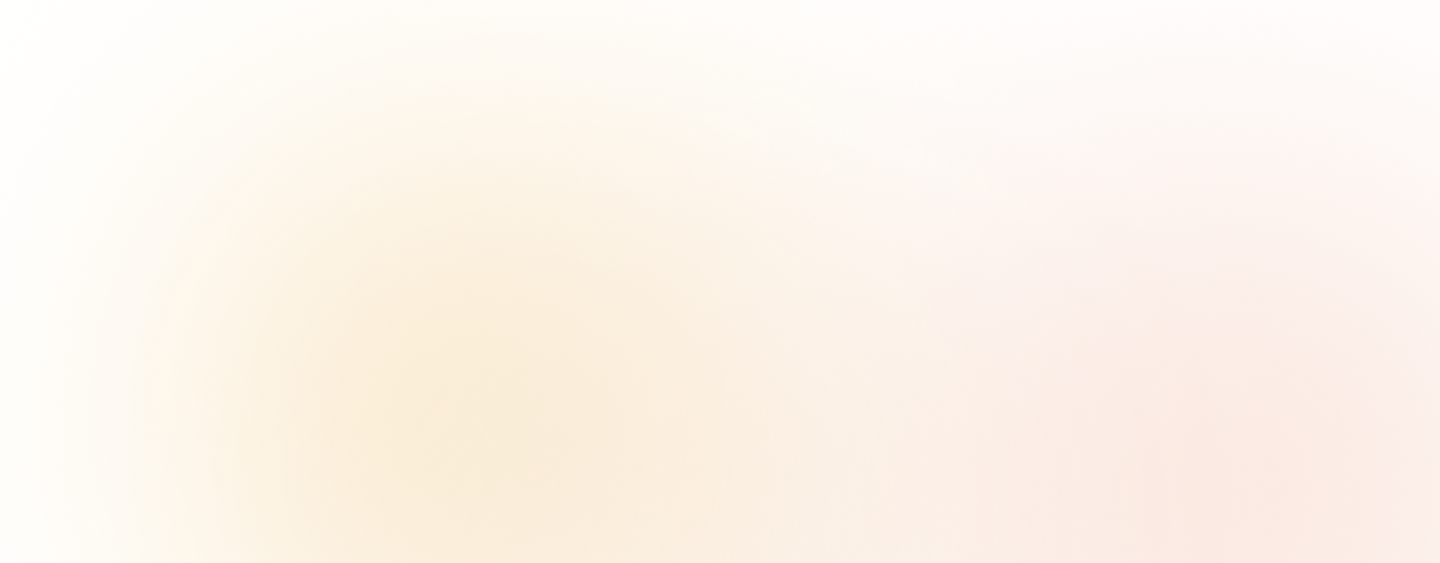
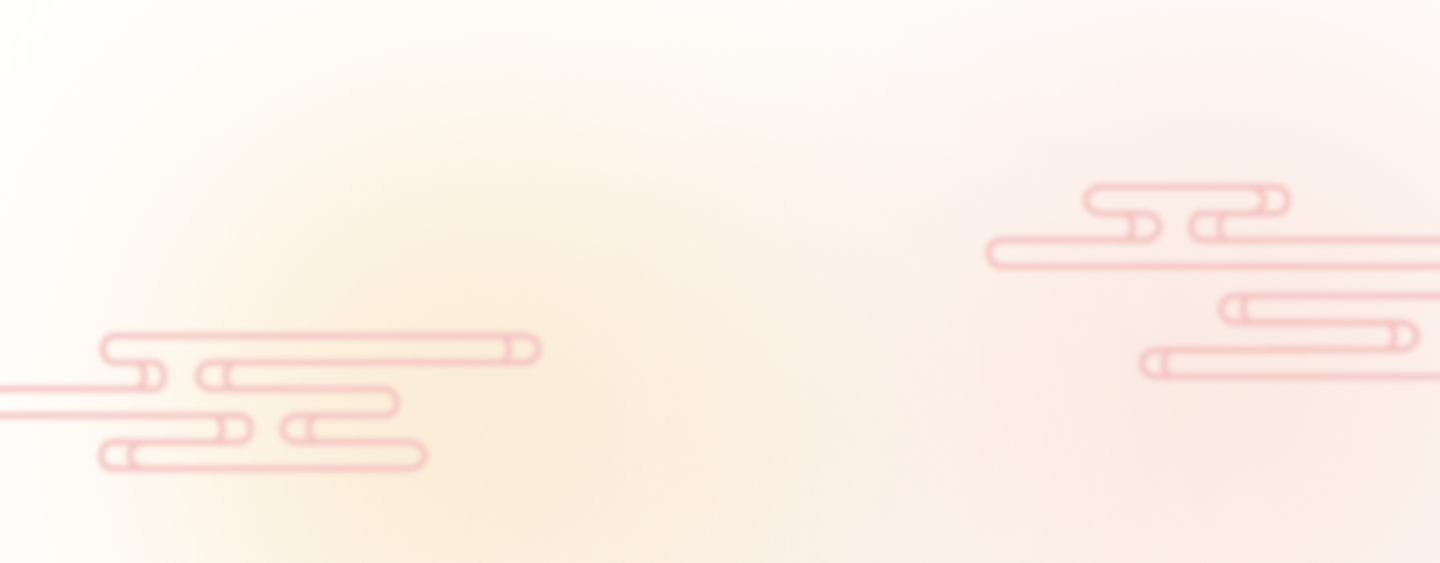
footer bg update, testing new cloud position

Changed region(s): [[0.0, 0.5737, 0.375, 0.8455], [0.6875, 0.302, 1.0, 0.4831], [0.7812, 0.5133, 1.0, 0.6945]]

diff --git a/index.html b/index.html
@@ -91,6 +91,13 @@
                     <div class="bg-shape2 bg-purple opacity-50 bg-blur"></div>
                     <div class="bg-shape3 bg-magenta opacity-50 bg-blur"></div>
                 </div>
+
+                <div id="wiggle-wrapper">
+                    <div id="wiggle1"></div>
+                    <div id="wiggle2"></div>
+                    <div id="wiggle3"></div>
+                    <div id="wiggle4"></div>
+                </div>
             </div>
         </header>
     </div>
@@ -394,12 +401,7 @@
 
 
 
-    <div id="wiggle-wrapper">
-        <div id="wiggle1"></div>
-        <div id="wiggle2"></div>
-        <div id="wiggle3"></div>
-        <div id="wiggle4"></div>
-    </div>
+
     
 </body>
 

diff --git a/global.css b/global.css
@@ -205,7 +205,7 @@ body{
     position: absolute;
     width: 500px;
     height: 200px;
-    z-index: -1;
+    z-index: 1;
     filter: blur(2px);
 }
 
